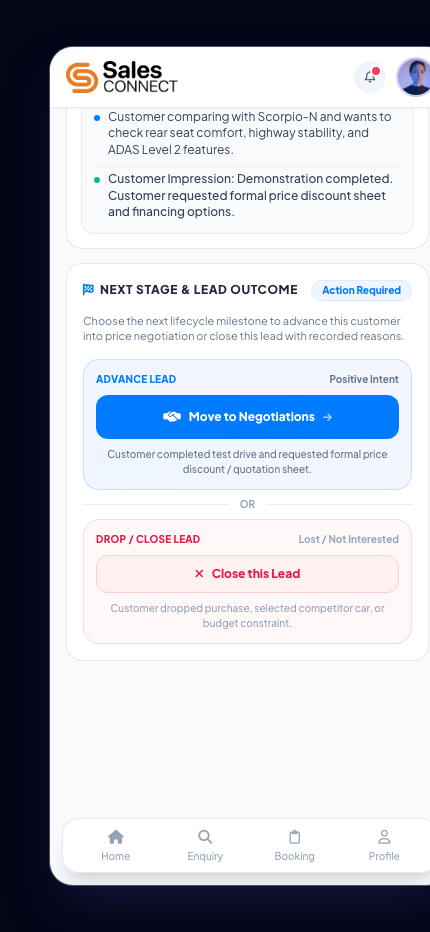
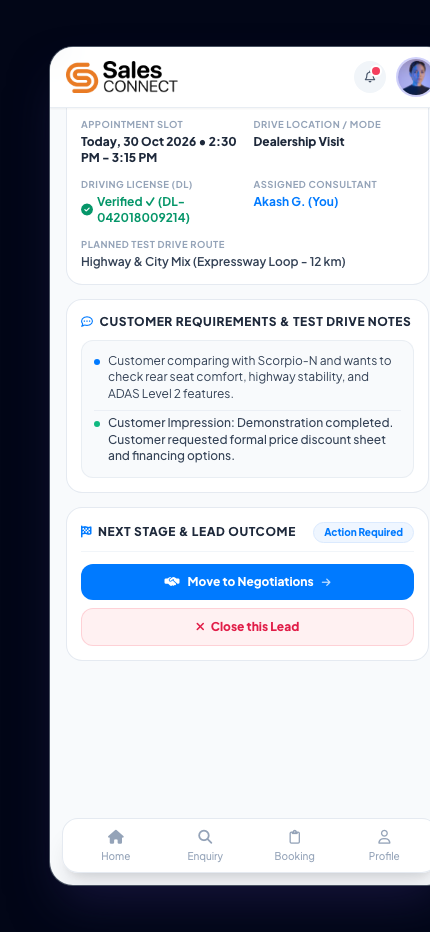
Streamline Next Stage & Lead Outcome and Close Lead into one single concise card

Changed region(s): [[0.1814, 0.1245, 0.9674, 0.6845], [0.9372, 0.4979, 0.9674, 0.529], [0.1814, 0.4979, 0.2116, 0.529]]

diff --git a/index.html b/index.html
@@ -3085,9 +3085,9 @@
           </div>
         </div>
 
-        <!-- 6. NEXT STAGE & LEAD OUTCOME: MOVE TO NEGOTIATIONS OR CLOSE LEAD -->
-        <div class="bg-white rounded-2xl border border-slate-200/90 p-4 shadow-xs space-y-3">
-          <div class="flex items-center justify-between">
+        <!-- 6. NEXT STAGE & LEAD OUTCOME (SINGLE CARD • TO THE POINT) -->
+        <div class="bg-white rounded-2xl border border-slate-200/90 p-3.5 shadow-xs space-y-3">
+          <div class="flex items-center justify-between border-b border-slate-100 pb-2">
             <h3 class="text-xs font-black text-slate-800 uppercase tracking-wider flex items-center gap-1.5">
               <i class="fa-solid fa-flag-checkered text-[#007AFF] text-xs"></i>
               <span>Next Stage & Lead Outcome</span>
@@ -3097,43 +3097,17 @@
             </span>
           </div>
 
-          <p class="text-[11px] text-slate-500 leading-snug">
-            Choose the next lifecycle milestone to advance this customer into price negotiation or close this lead with recorded reasons.
-          </p>
-
-          <div class="space-y-3 pt-1">
-            <!-- OPTION 1: MOVE TO NEGOTIATIONS -->
-            <div class="bg-gradient-to-r from-blue-50 to-indigo-50/70 p-3 rounded-2xl border border-blue-200/80 space-y-2">
-              <div class="flex items-center justify-between">
-                <span class="text-[10px] font-extrabold text-[#007AFF] uppercase tracking-wide">Advance Lead</span>
-                <span class="text-[10px] font-bold text-slate-500">Positive Intent</span>
-              </div>
-              <button type="button" onclick="openNegotiationModal()" class="w-full py-3 bg-[#007AFF] hover:bg-blue-600 active:bg-blue-700 text-white rounded-xl text-xs font-black flex items-center justify-center gap-2 shadow-xs active:scale-[0.99] transition-all cursor-pointer">
-                <i class="fa-solid fa-handshake-simple text-sm"></i>
-                <span>Move to Negotiations</span>
-                <i class="fa-solid fa-arrow-right text-[10px] opacity-75"></i>
-              </button>
-              <p class="text-[10px] text-center text-slate-500 font-medium">Customer completed test drive and requested formal price discount / quotation sheet.</p>
-            </div>
-
-            <!-- Visual Divider -->
-            <div class="relative py-0.5 flex items-center justify-center">
-              <div class="border-t border-slate-200/80 w-full"></div>
-              <span class="bg-white px-3 text-[10px] font-bold text-slate-400 absolute">OR</span>
-            </div>
-
-            <!-- OPTION 2: CLOSE THIS LEAD -->
-            <div class="bg-rose-50/50 p-3 rounded-2xl border border-rose-200/70 space-y-2">
-              <div class="flex items-center justify-between">
-                <span class="text-[10px] font-extrabold text-rose-600 uppercase tracking-wide">Drop / Close Lead</span>
-                <span class="text-[10px] font-bold text-slate-400">Lost / Not Interested</span>
-              </div>
-              <button type="button" onclick="openCloseLeadModal()" class="w-full py-2.5 bg-rose-50 hover:bg-rose-100 text-rose-600 border border-rose-200 rounded-xl text-xs font-black flex items-center justify-center gap-2 active:scale-[0.99] transition-all cursor-pointer">
-                <i class="fa-solid fa-xmark text-xs"></i>
-                <span>Close this Lead</span>
-              </button>
-              <p class="text-[10px] text-center text-slate-400 font-medium">Customer dropped purchase, selected competitor car, or budget constraint.</p>
-            </div>
+          <!-- Direct, To The Point Actions -->
+          <div class="space-y-2">
+            <button type="button" onclick="openNegotiationModal()" class="w-full py-2.5 bg-[#007AFF] hover:bg-blue-600 active:bg-blue-700 text-white rounded-xl text-xs font-black flex items-center justify-center gap-2 shadow-xs active:scale-[0.99] transition-all cursor-pointer">
+              <i class="fa-solid fa-handshake-simple text-xs"></i>
+              <span>Move to Negotiations</span>
+              <i class="fa-solid fa-arrow-right text-[10px] opacity-75"></i>
+            </button>
+            <button type="button" onclick="openCloseLeadModal()" class="w-full py-2.5 bg-rose-50 hover:bg-rose-100 text-rose-600 border border-rose-200/90 rounded-xl text-xs font-extrabold flex items-center justify-center gap-1.5 active:scale-[0.99] transition-all cursor-pointer">
+              <i class="fa-solid fa-xmark text-xs"></i>
+              <span>Close this Lead</span>
+            </button>
           </div>
         </div>
       </div>

diff --git a/sales_connect_redesign.html b/sales_connect_redesign.html
@@ -3085,9 +3085,9 @@
           </div>
         </div>
 
-        <!-- 6. NEXT STAGE & LEAD OUTCOME: MOVE TO NEGOTIATIONS OR CLOSE LEAD -->
-        <div class="bg-white rounded-2xl border border-slate-200/90 p-4 shadow-xs space-y-3">
-          <div class="flex items-center justify-between">
+        <!-- 6. NEXT STAGE & LEAD OUTCOME (SINGLE CARD • TO THE POINT) -->
+        <div class="bg-white rounded-2xl border border-slate-200/90 p-3.5 shadow-xs space-y-3">
+          <div class="flex items-center justify-between border-b border-slate-100 pb-2">
             <h3 class="text-xs font-black text-slate-800 uppercase tracking-wider flex items-center gap-1.5">
               <i class="fa-solid fa-flag-checkered text-[#007AFF] text-xs"></i>
               <span>Next Stage & Lead Outcome</span>
@@ -3097,43 +3097,17 @@
             </span>
           </div>
 
-          <p class="text-[11px] text-slate-500 leading-snug">
-            Choose the next lifecycle milestone to advance this customer into price negotiation or close this lead with recorded reasons.
-          </p>
-
-          <div class="space-y-3 pt-1">
-            <!-- OPTION 1: MOVE TO NEGOTIATIONS -->
-            <div class="bg-gradient-to-r from-blue-50 to-indigo-50/70 p-3 rounded-2xl border border-blue-200/80 space-y-2">
-              <div class="flex items-center justify-between">
-                <span class="text-[10px] font-extrabold text-[#007AFF] uppercase tracking-wide">Advance Lead</span>
-                <span class="text-[10px] font-bold text-slate-500">Positive Intent</span>
-              </div>
-              <button type="button" onclick="openNegotiationModal()" class="w-full py-3 bg-[#007AFF] hover:bg-blue-600 active:bg-blue-700 text-white rounded-xl text-xs font-black flex items-center justify-center gap-2 shadow-xs active:scale-[0.99] transition-all cursor-pointer">
-                <i class="fa-solid fa-handshake-simple text-sm"></i>
-                <span>Move to Negotiations</span>
-                <i class="fa-solid fa-arrow-right text-[10px] opacity-75"></i>
-              </button>
-              <p class="text-[10px] text-center text-slate-500 font-medium">Customer completed test drive and requested formal price discount / quotation sheet.</p>
-            </div>
-
-            <!-- Visual Divider -->
-            <div class="relative py-0.5 flex items-center justify-center">
-              <div class="border-t border-slate-200/80 w-full"></div>
-              <span class="bg-white px-3 text-[10px] font-bold text-slate-400 absolute">OR</span>
-            </div>
-
-            <!-- OPTION 2: CLOSE THIS LEAD -->
-            <div class="bg-rose-50/50 p-3 rounded-2xl border border-rose-200/70 space-y-2">
-              <div class="flex items-center justify-between">
-                <span class="text-[10px] font-extrabold text-rose-600 uppercase tracking-wide">Drop / Close Lead</span>
-                <span class="text-[10px] font-bold text-slate-400">Lost / Not Interested</span>
-              </div>
-              <button type="button" onclick="openCloseLeadModal()" class="w-full py-2.5 bg-rose-50 hover:bg-rose-100 text-rose-600 border border-rose-200 rounded-xl text-xs font-black flex items-center justify-center gap-2 active:scale-[0.99] transition-all cursor-pointer">
-                <i class="fa-solid fa-xmark text-xs"></i>
-                <span>Close this Lead</span>
-              </button>
-              <p class="text-[10px] text-center text-slate-400 font-medium">Customer dropped purchase, selected competitor car, or budget constraint.</p>
-            </div>
+          <!-- Direct, To The Point Actions -->
+          <div class="space-y-2">
+            <button type="button" onclick="openNegotiationModal()" class="w-full py-2.5 bg-[#007AFF] hover:bg-blue-600 active:bg-blue-700 text-white rounded-xl text-xs font-black flex items-center justify-center gap-2 shadow-xs active:scale-[0.99] transition-all cursor-pointer">
+              <i class="fa-solid fa-handshake-simple text-xs"></i>
+              <span>Move to Negotiations</span>
+              <i class="fa-solid fa-arrow-right text-[10px] opacity-75"></i>
+            </button>
+            <button type="button" onclick="openCloseLeadModal()" class="w-full py-2.5 bg-rose-50 hover:bg-rose-100 text-rose-600 border border-rose-200/90 rounded-xl text-xs font-extrabold flex items-center justify-center gap-1.5 active:scale-[0.99] transition-all cursor-pointer">
+              <i class="fa-solid fa-xmark text-xs"></i>
+              <span>Close this Lead</span>
+            </button>
           </div>
         </div>
       </div>

diff --git a/walkthrough.md b/walkthrough.md
@@ -1363,26 +1363,17 @@ A dedicated screen displaying **only test drive-specific information and outcome
 
 ---
 
-### 3. Move to Negotiations & Close Lead Actions
-The bottom of the screen provides two clear, dedicated lifecycle outcomes:
+### 3. Streamlined Single Outcome Card (Direct & To The Point)
+The previous nested boxes and descriptive text blocks have been unified into **one single, clean, to-the-point card**:
+- **Single Card Container**: Clean white card (`bg-white rounded-2xl border border-slate-200/90 p-3.5 shadow-xs`) with a neat header `Next Stage & Lead Outcome` and dynamic badge (`Action Required`, `IN NEGOTIATION`, or `LEAD CLOSED`).
+- **Zero Redundancy**: Removed inner nested boxes, repetitive subheadings ("Advance Lead", "Drop / Close Lead", "Positive Intent", "Lost / Not Interested"), explanatory paragraphs, and the "OR" divider line.
+- **Two Direct Action Buttons**:
+  1. **`[ 🤝 Move to Negotiations → ]`**: Full-width primary solid blue button (`bg-[#007AFF] hover:bg-blue-600 text-white`). Opens `#tdNegotiationModal` to record quotation, benefits, financing, and decision timeline.
+  2. **`[ ✕ Close this Lead ]`**: Full-width soft rose outlined button (`bg-rose-50 hover:bg-rose-100 text-rose-600 border border-rose-200/90`). Opens `#tdCloseLeadModal` to select structured loss reasons and remarks.
 
-1. **Option 1: Move to Negotiations (`#tdNegotiationModal`)**:
-   - Advances customer from test drive to price & discount negotiation stage.
-   - Pre-fills vehicle details and provides inputs for Target Quotation / On-Road Estimate, Requested Benefits / Corporate Discounts, Financing Mode, Expected Decision Timeline, and Negotiation Remarks.
-   - Upon confirmation, updates the lead status badge to **`IN NEGOTIATION`** and advances the stepper.
-2. **Option 2: Close this Lead (`#tdCloseLeadModal`)**:
-   - Closes or drops the lead with structured loss reasons:
-     - *Bought Competitor Vehicle (e.g. Creta / Scorpio / Seltos)*
-     - *Budget / On-Road Price Too High*
-     - *Postponed Car Purchase Decision*
-     - *Dissatisfied with Vehicle Ride / Space*
-     - *Customer Dropped Enquiry / Not Reachable*
-   - Includes feedback/remarks text area.
-   - Upon confirmation, records the reason and updates the status badge to **`CLOSED / LOST`**.
-
-| Move to Negotiations Modal | Close this Lead Modal |
-| :---: | :---: |
-| ![Move to Negotiations Modal](file:///Users/komalpreet/.gemini/antigravity/brain/841d8135-5e2d-494d-8f72-ecf6fb143304/screenshot_td_negotiation_modal.png) | ![Close this Lead Modal](file:///Users/komalpreet/.gemini/antigravity/brain/841d8135-5e2d-494d-8f72-ecf6fb143304/screenshot_td_close_lead_modal.png) |
+| Single To-The-Point Outcome Card | Move to Negotiations Modal | Close this Lead Modal |
+| :---: | :---: | :---: |
+| ![Single Outcome Card](file:///Users/komalpreet/.gemini/antigravity/brain/841d8135-5e2d-494d-8f72-ecf6fb143304/screenshot_td_details_single_card.png) | ![Move to Negotiations](file:///Users/komalpreet/.gemini/antigravity/brain/841d8135-5e2d-494d-8f72-ecf6fb143304/screenshot_td_negotiation_modal.png) | ![Close Lead Modal](file:///Users/komalpreet/.gemini/antigravity/brain/841d8135-5e2d-494d-8f72-ecf6fb143304/screenshot_td_close_lead_modal.png) |
 
 ---
 
